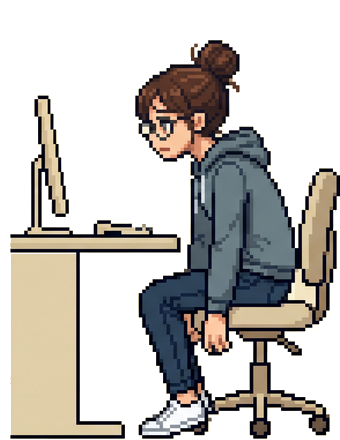
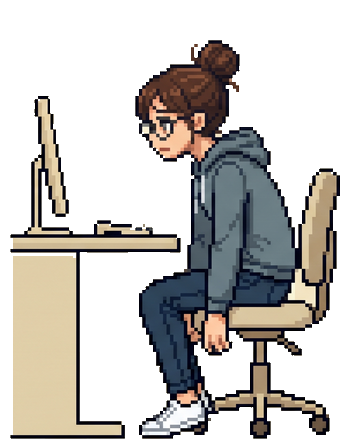
Defringe character images, larger pet, quit flow takes priority over alerts

diff --git a/tools/defringe.py b/tools/defringe.py
@@ -1,0 +1,42 @@
+"""투명 배경으로 만든 그림의 바깥쪽에 남은 밝은 테두리(하얀 후광·점)를 지운다.
+
+사용: uv run --with pillow --with numpy --with scipy python tools/defringe.py [폴더 또는 파일 ...]
+기본은 src/posture_alert/assets/img 아래 전체. 여러 번 돌려도 안전하다.
+"""
+import sys
+from pathlib import Path
+
+import numpy as np
+from PIL import Image
+from scipy import ndimage as ndi
+
+LIGHT = 130       # 이 값보다 밝은 색(RGB 최솟값)만 후광 후보
+ITERATIONS = 2    # 바깥에서 몇 겹까지 벗길지
+
+
+def defringe(path: Path) -> int:
+    a = np.array(Image.open(path).convert("RGBA"))
+    removed = 0
+    for _ in range(ITERATIONS):
+        transparent = a[..., 3] < 128
+        near = ndi.binary_dilation(transparent, structure=np.ones((3, 3))) & ~transparent
+        light = a[..., :3].min(axis=2) > LIGHT
+        mask = near & light
+        removed += int(mask.sum())
+        a[mask, 3] = 0
+    Image.fromarray(a).save(path)
+    return removed
+
+
+def main() -> None:
+    args = sys.argv[1:] or ["src/posture_alert/assets/img"]
+    files = []
+    for arg in args:
+        p = Path(arg)
+        files += sorted(p.rglob("*.png")) if p.is_dir() else [p]
+    for f in files:
+        print(f"{f}: {defringe(f)}px")
+
+
+if __name__ == "__main__":
+    main()

diff --git a/tests/test_pet_and_simulation.py b/tests/test_pet_and_simulation.py
@@ -170,6 +170,19 @@ def test_트레이로_영수증을_열었다_닫아도_앱은_안_꺼진다(qapp
     close(app)
 
 
+def test_종료_확인_중에는_알림이_뜨지_않는다(qapp, tmp_path):
+    app = started_app(qapp, tmp_path)
+    app.ask_quit()
+    app.show_next()                      # 알림 시각이 됐어도
+    assert app.card is None              # 종료가 우선
+    app.confirm._no()
+    QApplication.sendPostedEvents(None, QEvent.Type.DeferredDelete)
+    QApplication.processEvents()
+    app.show_next()                      # 취소하면 다시 알림이 뜬다
+    assert app.card is not None
+    close(app)
+
+
 def test_트레이로_캐릭터를_숨기고_다시_보인다(qapp, tmp_path):
     app = started_app(qapp, tmp_path)
     app.toggle_mini()

diff --git a/src/posture_alert/main.py b/src/posture_alert/main.py
@@ -299,7 +299,14 @@ class App:
     def receipt(self):
         return build_receipt(self.repo.events_today())
 
+    @property
+    def quitting(self) -> bool:
+        """종료 확인 창이 떠 있거나, 영수증을 보여 준 뒤 종료하는 중이면 True (알림보다 종료가 우선)."""
+        return self.confirm is not None or self.receipt_win_quits
+
     def show_stage(self, stage: Stage, interrupt: bool = False, alt: bool = False):
+        if self.quitting:   # 종료 흐름 중에는 새 알림을 띄우지 않음
+            return
         if self.card is not None:
             self.card.close()
         if not self.cycle.cycle_no:  # 아직 사이클이 없으면 하나 만든다

diff --git a/src/posture_alert/ui/popup.py b/src/posture_alert/ui/popup.py
@@ -479,7 +479,7 @@ class PetWidget(QWidget):
     clicked = Signal()
     moved = Signal()              # 옮기는 중 (숫자 창이 따라오게)
     moved_to = Signal(int, int)   # 옮긴 뒤 위치 (기억해 두기용)
-    HEIGHT = 130
+    HEIGHT = 170
 
     def __init__(self, assets: Path, character: str = "f"):
         super().__init__(None, Qt.WindowType.FramelessWindowHint

diff --git a/RELEASE_NOTES.md b/RELEASE_NOTES.md
@@ -4,7 +4,9 @@
 - 🔔 "시작"을 누르면 첫 알림이 바로 뜨고, 이후 30분마다 다음 단계가 떠요
 - 📌 알림 창은 누를 때까지 계속 떠 있어요 (자동으로 안 닫혀요)
 - 🐧 화면 오른쪽 아래에 캐릭터 추가: 평소엔 바른 자세, 알림이 뜨면 거북목 자세. 누르면 숫자 창(남은 수술비 / 다음 알림 / 켜둔 시간), 숫자 창의 X를 누르면 "종료하시겠어요?"가 뜨고, 예를 누르면 오늘의 수술 영수증을 보여준 뒤 종료돼요. 끌어서 옮길 수 있고, 트레이 아이콘 클릭으로 보이기/숨기기
-- 🔘 제목줄 X 버튼 크게
+- 🔘 제목줄 X 버튼 크게, 캐릭터도 더 크게
+- 🧼 캐릭터 그림 바깥에 남아 있던 하얀 테두리 제거
+- 🛑 종료 확인 중에는 새 알림이 뜨지 않아요 (종료가 우선)
 - 🚫 앱 중복 실행 방지
 - 🖼 앱 아이콘 추가 (exe, 트레이, 창)
 - 🩹 남자 메인 그림에 남아 있던 제목 글자 조각 제거
